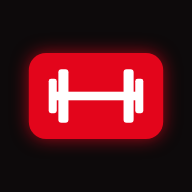
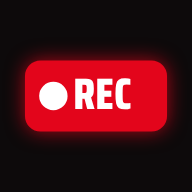
Add files via upload

Changed region(s): [[0.1562, 0.2188, 0.8438, 0.7812], [0.8438, 0.3438, 0.9062, 0.6562], [0.0938, 0.3438, 0.1562, 0.6562]]

diff --git a/index.html b/index.html
@@ -9,13 +9,13 @@
 <meta name="apple-mobile-web-app-capable" content="yes">
 <meta name="mobile-web-app-capable" content="yes">
 <meta name="apple-mobile-web-app-status-bar-style" content="black-translucent">
-<meta name="apple-mobile-web-app-title" content="Fonte">
+<meta name="apple-mobile-web-app-title" content="REC">
 <meta name="theme-color" content="#0D0A0B">
 <style>:root{padding-top:env(safe-area-inset-top,0px);padding-bottom:env(safe-area-inset-bottom,0px)}body{margin:0;font:14px/1.4 system-ui,-apple-system,sans-serif}img{max-width:100%}[hidden]{display:none!important}</style>
 <script>window.CDF_LOCAL = true;</script>
 </head>
 <body>
-<title>Carnet de Fonte</title>
+<title>REC Performance</title>
 <meta name="claude:viewport-fit-sides" content="cover">
 <link rel="preconnect" href="https://fonts.googleapis.com">
 <link rel="preconnect" href="https://fonts.gstatic.com" crossorigin>
@@ -221,6 +221,7 @@ textarea.input{height:auto;min-height:88px;padding:12px 14px;resize:vertical;lin
 .sheet-head{display:flex;justify-content:space-between;align-items:flex-start;gap:12px;position:sticky;top:-8px;background:var(--surface);padding-top:8px;padding-bottom:4px;z-index:1}
 .sheet-head h2{font-size:28px;text-transform:uppercase}
 .pk-list{display:flex;flex-direction:column}
+.sheet-tools{display:flex;align-items:center;gap:4px;flex-shrink:0}
 .pk-h{font-family:var(--font-display);font-size:14px;font-weight:700;letter-spacing:.14em;text-transform:uppercase;color:var(--muted);padding:16px 0 6px}
 .pick{display:flex;justify-content:space-between;align-items:center;gap:12px;min-height:50px;padding:8px 2px;border-bottom:1px solid var(--line);text-align:left;width:100%}
 .pick:active{background:var(--surface-2)}
@@ -365,7 +366,7 @@ html.resting .toast{bottom:calc(var(--tabbar-h) + env(safe-area-inset-bottom,0px
 </style>
 
 <header class="topbar"><div class="wrap">
-  <span id="light" class="light" aria-live="polite"><i></i><span id="light-text">Carnet de fonte</span></span>
+  <span id="light" class="light" aria-live="polite"><i></i><span id="light-text">REC</span></span>
   <span id="savestate" class="savestate" data-state="idle"></span>
 </div></header>
 <main class="wrap">
@@ -414,6 +415,7 @@ const ICON = {
   check:'<svg class="ic" viewBox="0 0 24 24"><path d="M5 12.5l4.5 4.5L19 7.5"/></svg>',
   x:'<svg class="ic" viewBox="0 0 24 24"><path d="M6.5 6.5l11 11M17.5 6.5l-11 11"/></svg>',
   trash:'<svg class="ic" viewBox="0 0 24 24"><path d="M4 7h16M9.5 7V4.5h5V7M6.5 7l1 13h9l1-13"/></svg>',
+  pen:'<svg class="ic" viewBox="0 0 24 24"><path d="M4 20h4L19 9l-4-4L4 16v4z"/><path d="M13.5 6.5l4 4"/></svg>',
   up:'<svg class="ic" viewBox="0 0 24 24"><path d="M12 19V5M6 11l6-6 6 6"/></svg>',
   right:'<svg class="ic" viewBox="0 0 24 24"><path d="M9 5l7 7-7 7"/></svg>',
   left:'<svg class="ic" viewBox="0 0 24 24"><path d="M15 5l-7 7 7 7"/></svg>'
@@ -478,9 +480,14 @@ function progSub(name, lo){
   return d ? `Dernière : ${d} · charges reprises` : "Pas encore faite";
 }
 const cmpDesc = (a, b) => a.date < b.date ? 1 : a.date > b.date ? -1 : (b.createdAt || 0) - (a.createdAt || 0);
+function libList(){
+  const o = (S.exSettings && S.exSettings.lib) || {}, out = [];
+  for (const [g, arr] of Object.entries(LIB)) for (const n of arr) { const x = o[keyOf(n)]; out.push({name: x && x.name ? x.name : n, group: x && x.group ? x.group : g}); }
+  return out;
+}
 function groupOf(name){
   const k = keyOf(name);
-  for (const [g, arr] of Object.entries(LIB)) if (arr.some(n => keyOf(n) === k)) return g;
+  for (const x of libList()) if (keyOf(x.name) === k) return x.group;
   const r = S.IDX && S.IDX.get(k);
   return r ? r.group : "Autre";
 }
@@ -494,6 +501,7 @@ const S = {
   newDate: todayStr(), customName: "", confirm: null,
   pickQ: "", pickCreate: null, barData: null, lineData: null,
   save: "idle", mounted: null, restoreId: load("cdf.open"), templates: new Map(),
+  exSettings: {lib: {}}, exEdit: null,
   profile: null, body: [], wDate: todayStr(), wKg: "", meas: {}, measOpen: false, pf: null, wPts: null
 };
 const pending = new Map();
@@ -661,11 +669,11 @@ function render(fromData){
 }
 function renderTop(){
   const d = S.draft, light = $("#light"), lt = $("#light-text");
-  let on = false, txt = "Carnet de fonte";
+  let on = false, txt = "REC";
   if (d && d.date === todayStr()) {
     on = true;
     const mins = Math.floor((Date.now() - (d.createdAt || Date.now())) / 60000);
-    txt = mins >= 0 && mins < 300 ? `En salle · ${Math.floor(mins / 60)}:${pad(mins % 60)}` : "En salle";
+    txt = mins >= 0 && mins < 300 ? `REC · ${Math.floor(mins / 60)}:${pad(mins % 60)}` : "REC";
   } else if (d) txt = "Modification";
   light.classList.toggle("on", on); lt.textContent = txt;
   const sv = $("#savestate");
@@ -775,7 +783,7 @@ function exCardHTML(e, i){
   return `<article class="ex-card" data-ei="${i}">
     <header class="ex-head">
       <div class="ex-title"><h3>${esc(e.name)}</h3><span class="chip">${esc(e.group || "Autre")}</span></div>
-      ${ro ? "" : `<div class="ex-tools">${i > 0 ? `<button class="icon-btn" data-act="up-ex" data-e="${i}" aria-label="Monter ${esc(e.name)}">${ICON.up}</button>` : ""}<button class="icon-btn${S.confirm === "ex" + i ? " armed" : ""}" data-act="del-ex" data-e="${i}" aria-label="Retirer ${esc(e.name)}">${S.confirm === "ex" + i ? "Retirer ?" : ICON.trash}</button></div>`}
+      ${ro ? "" : `<div class="ex-tools"><button class="icon-btn" data-act="edit-ex" data-name="${esc(e.name)}" aria-label="Renommer ${esc(e.name)}">${ICON.pen}</button>${i > 0 ? `<button class="icon-btn" data-act="up-ex" data-e="${i}" aria-label="Monter ${esc(e.name)}">${ICON.up}</button>` : ""}<button class="icon-btn${S.confirm === "ex" + i ? " armed" : ""}" data-act="del-ex" data-e="${i}" aria-label="Retirer ${esc(e.name)}">${S.confirm === "ex" + i ? "Retirer ?" : ICON.trash}</button></div>`}
     </header>
     <p class="ex-last">${last ? `Dernière fois (${esc(fmtDate(last.date, {day: "numeric", month: "short"}))}) : <b class="num">${esc(summary(last.sets))}</b>` : "Première fois sur cet exercice"}${best != null && best > 0 ? ` · record <b class="num">${esc(fmtW(best))}</b>` : ""}</p>
     <div class="sets">
@@ -812,7 +820,7 @@ function refreshCard(i){
 /* Picker sheet */
 function knownExercises(){
   const m = new Map();
-  for (const [g, arr] of Object.entries(LIB)) for (const n of arr) m.set(keyOf(n), {name: n, group: g, rec: null});
+  for (const x of libList()) m.set(keyOf(x.name), {name: x.name, group: x.group, rec: null});
   for (const [k, r] of S.IDX) {
     const rec = r.entries.reduce((b, x) => x.top != null && (b === null || x.top > b) ? x.top : b, null);
     const cur = m.get(k);
@@ -874,7 +882,7 @@ function histHTML(){
       h += `<section class="sec"><h2 class="month-h">${esc(monthLabel(m))}<span class="num">${plural(arr.length, "séance")} · ${fmtVol(vol)}</span></h2><div class="s-list">${arr.map(sessionRow).join("")}</div></section>`;
     }
   } else {
-    h += `<input id="hist-q" class="input" type="search" placeholder="Rechercher un exercice" autocomplete="off" value="${esc(S.histQ)}" aria-label="Rechercher un exercice"><div id="hist-list">${exListHTML()}</div>`;
+    h += `${S.canWrite ? `<button class="btn btn-quiet btn-block" data-act="manage-ex">Renommer mes exercices</button>` : ""}<input id="hist-q" class="input" type="search" placeholder="Rechercher un exercice" autocomplete="off" value="${esc(S.histQ)}" aria-label="Rechercher un exercice"><div id="hist-list">${exListHTML()}</div>`;
   }
   return h;
 }
@@ -896,7 +904,7 @@ function openExDetail(key){
   const pts = en.slice(-20).map(x => ({v: bodyweight ? Math.max(...x.sets.map(s => s.reps)) : x.top, date: x.date, sets: x.sets}));
   S.lineData = {pts, unit: bodyweight ? "reps" : "kg"};
   const sel = pts.length - 1;
-  openSheet(`<div class="sheet-head"><div><p class="eyebrow">${esc(r.group)}</p><h2>${esc(r.name)}</h2></div><button class="icon-btn" data-act="sheet-close" aria-label="Fermer">${ICON.x}</button></div>
+  openSheet(`<div class="sheet-head"><div><p class="eyebrow">${esc(r.group)}</p><h2>${esc(r.name)}</h2></div><div class="sheet-tools">${S.canWrite ? `<button class="btn-mini" data-act="edit-ex" data-name="${esc(r.name)}">Renommer</button>` : ""}<button class="icon-btn" data-act="sheet-close" aria-label="Fermer">${ICON.x}</button></div></div>
     <div class="tiles">
       <div class="tile"><small>Record</small><b class="num">${bodyweight ? esc(Math.max(...en.map(x => Math.max(...x.sets.map(s => s.reps))))) + " reps" : esc(fmtW(rec.top))}</b><span>${esc(fmtDate(rec.date, {day: "numeric", month: "short"}))}</span></div>
       <div class="tile"><small>1RM estimé</small><b class="num">${e1 > 0 ? nf0.format(e1) + " kg" : "—"}</b><span class="num">${e1 > 0 && curWeight() ? nfKg.format(Math.round(e1 / curWeight() * 100) / 100) + " × ton poids" : "formule d'Epley"}</span></div>
@@ -1129,6 +1137,10 @@ document.addEventListener("click", e => {
     case "save-profile": saveProfile(); return;
     case "toggle-meas": S.measOpen = !S.measOpen; render(); return;
     case "export-data": exportData(); return;
+    case "manage-ex": openManage(); return;
+    case "edit-ex": openEditEx(b.dataset.name); return;
+    case "ex-group": S.exEdit.group = b.dataset.group; b.parentElement.querySelectorAll("[data-act=ex-group]").forEach(x => x.setAttribute("aria-pressed", String(x.dataset.group === S.exEdit.group))); return;
+    case "save-ex": saveExercise(); return;
     case "import-data": { const f = $("#import-file"); if (f) { f.value = ""; f.click(); } return; }
     case "import-cancel": S.importPending = null; render(); return;
     case "import-confirm": {
@@ -1414,6 +1426,55 @@ async function keepAwake(on){
   } catch (e) { WL = null; }
 }
 
+/* ---------- Exercise names ---------- */
+function openManage(){
+  const known = knownExercises();
+  let h = `<div class="sheet-head"><h2>Mes exercices</h2><button class="icon-btn" data-act="sheet-close" aria-label="Fermer">${ICON.x}</button></div>
+    <p class="muted">Touche un exercice pour changer son nom ou son groupe musculaire. Le changement s'applique aussi à tes séances passées et à tes séances types.</p><div class="pk-list">`;
+  for (const g of GROUPS) {
+    const arr = [...known.values()].filter(x => x.group === g).sort((a, b) => a.name.localeCompare(b.name, "fr"));
+    if (!arr.length) continue;
+    h += `<h3 class="pk-h">${esc(g)}</h3>` + arr.map(x => { const r = S.IDX.get(keyOf(x.name)); return `<button class="pick" data-act="edit-ex" data-name="${esc(x.name)}"><span class="pick-name">${esc(x.name)}</span><span class="pick-sub">${r ? plural(r.entries.length, "séance") : "Jamais fait"} ›</span></button>`; }).join("");
+  }
+  openSheet(h + `</div>`, "Mes exercices");
+}
+function openEditEx(name){
+  const k = keyOf(name), r = S.IDX.get(k);
+  const used = [...S.sessions.values()].filter(s => (s.exercises || []).some(e => keyOf(e.name) === k)).length;
+  const inTpl = [...S.templates.values()].some(t => (t.exercises || []).some(e => keyOf(e.name) === k));
+  S.exEdit = {old: name, group: (knownExercises().get(k) || {}).group || (r && r.group) || "Autre"};
+  openSheet(`<div class="sheet-head"><h2>Modifier l'exercice</h2><button class="icon-btn" data-act="sheet-close" aria-label="Fermer">${ICON.x}</button></div>
+    <label class="field" for="ex-new"><span class="eyebrow">Nom de l'exercice</span><input id="ex-new" class="input" maxlength="60" autocomplete="off" value="${esc(name)}"></label>
+    <div class="field"><span class="eyebrow">Groupe musculaire</span><div class="chips">${GROUPS.map(g => `<button class="chip-btn" data-act="ex-group" data-group="${esc(g)}" aria-pressed="${g === S.exEdit.group}">${esc(g)}</button>`).join("")}</div></div>
+    <p class="muted">${!used && !inTpl && S.draft && S.draft.exercises.some(e => keyOf(e.name) === k) ? "Le changement s'applique à ta séance en cours et à ta liste d'exercices." : used ? `Le changement s'applique aussi à ${used > 1 ? `tes ${used} séances passées` : "ta séance passée"}${inTpl ? " et à ta séance type" : ""}. Tes records et ta progression sont conservés.` : inTpl ? "Le changement s'applique aussi à ta séance type." : "Tu n'as pas encore fait cet exercice : seul son nom dans la liste change."}</p>
+    <button class="btn btn-primary btn-block" data-act="save-ex">Enregistrer</button>`, "Modifier l'exercice");
+}
+async function saveExercise(){
+  const E = S.exEdit; if (!E || !S.canWrite || !S.db) return;
+  const name = ($("#ex-new").value || "").trim().replace(/\s+/g, " ");
+  if (!name) { toast("Donne un nom à l'exercice."); return; }
+  const oldK = keyOf(E.old), newK = keyOf(name), group = E.group || "Autre";
+  if (newK !== oldK && knownExercises().has(newK)) { toast(`« ${name} » existe déjà dans ta liste. Choisis un autre nom.`); return; }
+  const lib = {...((S.exSettings && S.exSettings.lib) || {})};
+  for (const [g, arr] of Object.entries(LIB)) for (const n of arr) { const ok = keyOf(n), cur = lib[ok] && lib[ok].name ? lib[ok].name : n; if (keyOf(cur) === oldK) lib[ok] = {name, group}; }
+  S.exSettings = {...S.exSettings, lib};
+  const fix = list => (list || []).map(e => keyOf(e.name) === oldK ? {...e, name, group} : e);
+  const touched = [...S.sessions.entries()].filter(([id, v]) => (v.exercises || []).some(e => keyOf(e.name) === oldK) && !(S.draft && S.draft.id === id));
+  if (S.draft && S.draft.exercises.some(e => keyOf(e.name) === oldK)) { S.draft.exercises = fix(S.draft.exercises); queueSave(S.draft); }
+  for (const [id, v] of touched) S.sessions.set(id, {...v, exercises: fix(v.exercises)});
+  closeSheet(); render();
+  try {
+    await S.db.doc("settings/exercises").set({lib, updatedAt: Date.now()});
+    for (const [id, v] of touched) { const b = clone(v); b.exercises = fix(b.exercises); b.updatedAt = Date.now(); await S.col.doc(id).set(b); }
+    for (const [tid, t] of [...S.templates.entries()]) {
+      if (!(t.exercises || []).some(e => keyOf(e.name) === oldK)) continue;
+      const b = clone(t); b.exercises = fix(b.exercises); b.updatedAt = Date.now(); S.templates.set(tid, b);
+      await S.db.collection("templates").doc(tid).set(b);
+    }
+    toast(newK === oldK && name === E.old ? "Exercice mis à jour" : `Renommé en « ${name} »`);
+  } catch (e) { toast("Renommage interrompu. Vérifie ta connexion et réessaie."); }
+}
+
 /* ---------- Local store (installed app) ---------- */
 function localDB(){
   const KEY = "cdf.db.v1";
@@ -1453,10 +1514,10 @@ function backupHTML(){
 function markBackup(){ S.lastBackup = todayStr(); store("cdf.backup", S.lastBackup); render(); toast("Sauvegarde exportée"); }
 async function exportData(){
   const payload = {app: "carnet-de-fonte", version: 1, exportedAt: new Date().toISOString(), docs: S.db.dump()};
-  const name = `carnet-de-fonte-${todayStr()}.json`, text = JSON.stringify(payload);
+  const name = `rec-sauvegarde-${todayStr()}.json`, text = JSON.stringify(payload);
   try {
     const file = new File([text], name, {type: "application/json"});
-    if (navigator.canShare && navigator.canShare({files: [file]})) { await navigator.share({files: [file], title: "Sauvegarde Carnet de Fonte"}); markBackup(); return; }
+    if (navigator.canShare && navigator.canShare({files: [file]})) { await navigator.share({files: [file], title: "Sauvegarde REC"}); markBackup(); return; }
   } catch (e) { if (e && e.name === "AbortError") return; }
   try {
     const url = URL.createObjectURL(new Blob([text], {type: "application/json"}));
@@ -1472,7 +1533,7 @@ function readImport(input){
       const p = JSON.parse(r.result);
       if (!p || p.app !== "carnet-de-fonte" || typeof p.docs !== "object" || !p.docs) throw 0;
       S.importPending = p; render();
-    } catch (e) { toast("Ce fichier n'est pas une sauvegarde du Carnet de Fonte."); }
+    } catch (e) { toast("Ce fichier n'est pas une sauvegarde REC."); }
   };
   r.onerror = () => toast("Lecture du fichier impossible.");
   r.readAsText(f);
@@ -1506,6 +1567,7 @@ function connect(db, canWrite){
     }
     render(true);
   }, () => { clearTimeout(S.loadT); S.status = "error"; render(true); });
+  db.doc("settings/exercises").onSnapshot(snap => { S.exSettings = snap.exists ? {lib: {}, ...snap.data()} : {lib: {}}; render(true); }, () => {});
   db.doc("profile/main").onSnapshot(snap => { S.profile = snap.exists ? snap.data() : null; render(true); }, () => {});
   db.collection("body").onSnapshot(snap => { S.body = snap.docs.filter(x => x.exists).map(x => ({...x.data(), id: x.id})).filter(x => x.date).sort((a, b) => a.date < b.date ? -1 : a.date > b.date ? 1 : 0); render(true); }, () => {});
   db.collection("templates").onSnapshot(snap => { S.templates = new Map(snap.docs.filter(x => x.exists).map(x => [x.id, x.data()])); render(true); }, () => {});

diff --git a/sw.js b/sw.js
@@ -1,5 +1,5 @@
-// Carnet de Fonte: works offline. Page first from the network (to get updates), cache as fallback.
-const CACHE = "fonte-c993e4c1";
+// REC: works offline. Page first from the network (to get updates), cache as fallback.
+const CACHE = "rec-60bdf8d7";
 const ASSETS = ["./", "./index.html", "./manifest.webmanifest", "./apple-touch-icon.png", "./icon-192.png", "./icon-512.png", "./icon-maskable-512.png"];
 self.addEventListener("install", e => { e.waitUntil(caches.open(CACHE).then(c => c.addAll(ASSETS)).then(() => self.skipWaiting())); });
 self.addEventListener("activate", e => { e.waitUntil(caches.keys().then(ks => Promise.all(ks.filter(k => k !== CACHE).map(k => caches.delete(k)))).then(() => self.clients.claim())); });
